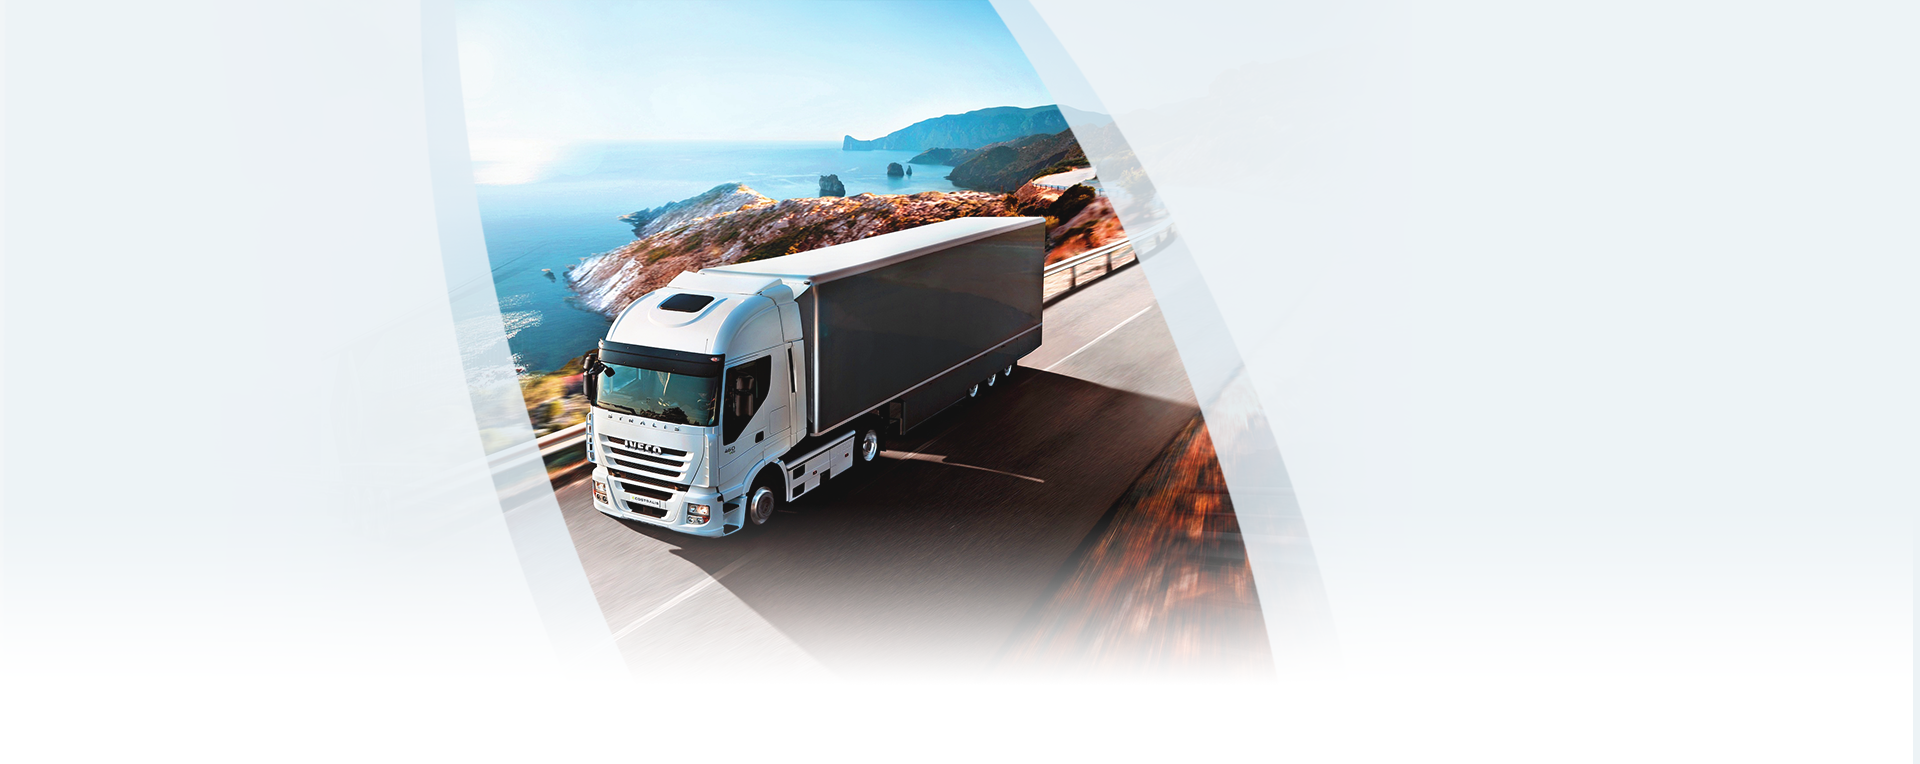
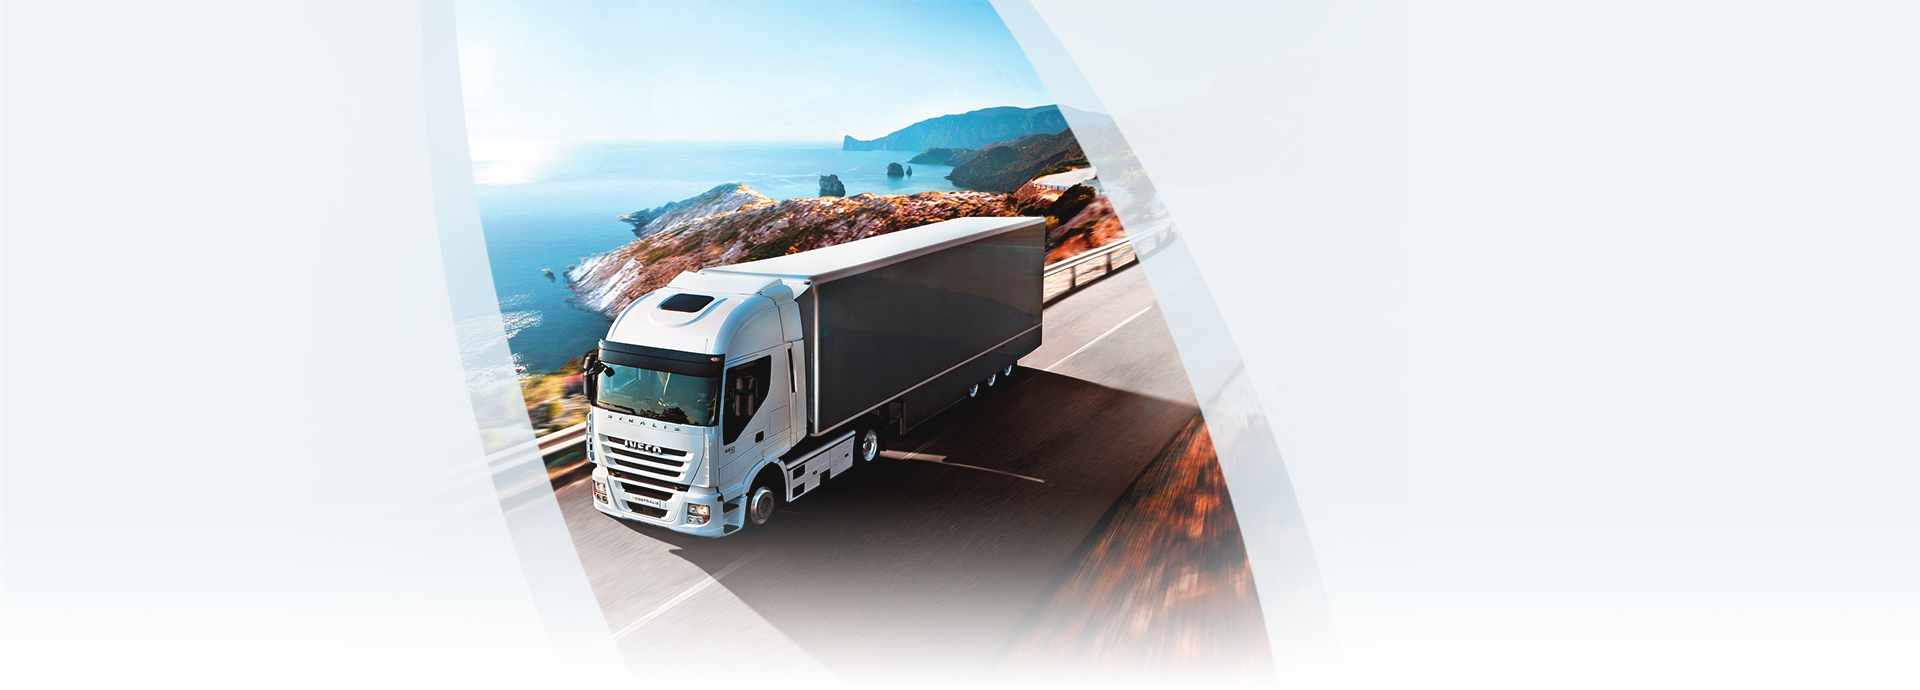
beta1

Changed region(s): [[0.25, 0.1217, 0.6875, 0.9739]]

diff --git a/app/css/header.min.css b/app/css/header.min.css
@@ -1,1 +1,1 @@
-a,body{color:#323232}.button,a{-webkit-transition:all .5s ease}h2,h3,h4,p{margin-top:0}.social a,body{position:relative}.button,h4{text-transform:uppercase}body{font-size:15px;min-width:320px;line-height:1.6;font-family:RobotoLight,sans-serif;overflow-x:hidden;background-color:#fff}.hidden{display:none}.button,.social a{display:inline-block}h1{font:27px/42px RobotoThin,sans-serif;font-weight:400;margin-bottom:20px}h2,h2.page-name{margin-bottom:25px}h2,h3,h4{font-family:PTSans,sans-serif;font-weight:400}h2{font-size:21px}h2.page-name{font:24px/1 RobotoThin,sans-serif}h3{font-size:18px;margin-top:30px;margin-bottom:12px}h4{font-size:14px;line-height:24px}.button,.main-nav li a{font:14px/1 PTSans,sans-serif}a{transition:all .5s ease}a:hover{color:#09cf3a;opacity:.7}a:active,a:focus,a:hover{outline:0;text-decoration:none}p{margin-bottom:24px}ul{margin:0;padding:0;list-style-type:none}.social a::before{content:'';height:100%;width:100%;position:absolute;top:0;left:0;background-color:#fff;opacity:0;-webkit-transition:opacity .1s ease;transition:opacity .1s ease}.user-agreement,.user-agreement i,form,header .logo{position:relative}.social a:hover{opacity:1}.social a:hover::before{opacity:.7}.button{width:100%;color:#fff;padding:17px 0 13px;border:none;-webkit-border-radius:2px;border-radius:2px;background-color:#09cf3a;-webkit-box-shadow:0 2px 5px rgba(0,0,0,.2);box-shadow:0 2px 5px rgba(0,0,0,.2);transition:all .5s ease}.button:hover{background-color:#47f773}section.content{padding-top:15px}.text-right{text-align:right}.text-center,form{text-align:center}.cell{display:table-cell;padding:0}.main-nav,.user-agreement i,header .logo,header form{display:inline-block}.top{vertical-align:top}.middle{vertical-align:middle}form{font:13px/18px PTSans,sans-serif}form h4{font-weight:600;line-height:21px;margin-bottom:8px}form p{margin-bottom:6px}form p span{color:#09cf3a;font-size:14px;font-weight:600}form label p{margin-bottom:5px;text-align:left}form input,form textarea{width:100%;color:#323232;font:17px RobotoLight,sans-serif;padding:0 8px;margin-bottom:8px;-webkit-border-radius:2px;border-radius:2px;border:1px solid #dcdcdc;-webkit-box-shadow:inset 0 0 4px rgba(0,0,0,.15);box-shadow:inset 0 0 4px rgba(0,0,0,.15)}form input{height:40px}.user-agreement{text-align:left;margin-top:5px;margin-bottom:8px}.user-agreement i{color:#09cf3a;font-size:14px;margin-right:8px;cursor:pointer}.user-agreement a{color:#09cf3a;text-decoration:underline;opacity:.7}.user-agreement a:hover{color:#2ff660}header{height:764px;background:url(../img/header-bg.png) center}header .logo{width:410px;height:auto;top:16px;left:-15px}header .logo img{width:100%;height:100%}header .contacts-bar{position:relative;top:46px;text-align:right;margin-left:109px;float:right}header .contacts-bar i{color:#09cf3a;font-size:17px}header .contacts-bar p{color:#aeb2b4;font:12px PTSans,sans-serif;margin:3px 0 0}header .email p,header .phone p{color:#595959;font:22px PTSans,sans-serif;margin-top:0;margin-left:7px}header .email span,header .phone span{font-size:20px;color:#09cf3a;opacity:.5}header .email a,header .phone a{color:#595959;font:17px PTSans,sans-serif;-webkit-transition:all .5s ease;transition:all .5s ease}header .email a:hover,header .phone a:hover{color:#09cf3a;opacity:.5;text-decoration:none}header .email{margin-top:8px}header h1{margin-top:120px}header form{max-width:360px;top:70px;background-color:#f7f7f7;-webkit-border-radius:8px;border-radius:8px;-webkit-box-shadow:0 0 6px rgba(0,0,0,.15);box-shadow:0 0 6px rgba(0,0,0,.15);color:#b1b1b2;padding:20px 24px 35px}header form h4{color:#8a8a8a}.main-nav li a,button.menu{color:#fff;text-transform:uppercase;padding:18px 0 15px}.main-nav{width:100%;background-color:#08b733;-webkit-box-shadow:inset 0 0 4px rgba(0,0,0,.25);box-shadow:inset 0 0 4px rgba(0,0,0,.25)}.main-nav ul{display:table;width:100%}.main-nav li{display:table-cell;text-align:center}.main-nav li.active{background-color:#079e2c;-webkit-box-shadow:inset 0 0 4px rgba(0,0,0,.05);box-shadow:inset 0 0 4px rgba(0,0,0,.05)}.main-nav li a{display:block;font-weight:600}.main-nav li a:hover{background-color:#09cf3a;opacity:1}button.menu{display:inline-block;width:100%;font:14px/1 PTSans,sans-serif;font-weight:600;border:none;background-color:transparent;text-align:center}
+a,body{color:#323232}.button,a{-webkit-transition:all .5s ease}h2,h3,h4,p{margin-top:0}.social a,body{position:relative}.button,h4{text-transform:uppercase}body{font-size:15px;min-width:320px;line-height:1.6;font-family:RobotoLight,sans-serif;overflow-x:hidden;background-color:#fff}.hidden{display:none}.button,.social a{display:inline-block}h1{font:27px/42px RobotoThin,sans-serif;font-weight:400;margin-bottom:20px}h2,h2.page-name{margin-bottom:25px}h2,h3,h4{font-family:PTSans,sans-serif;font-weight:400}h2{font-size:21px}h2.page-name{font:24px/1 RobotoThin,sans-serif}h3{font-size:18px;margin-top:30px;margin-bottom:12px}h4{font-size:14px;line-height:24px}.button,.main-nav li a{font:14px/1 PTSans,sans-serif}a{transition:all .5s ease}a:hover{color:#09cf3a;opacity:.7}a:active,a:focus,a:hover{outline:0;text-decoration:none}p{margin-bottom:24px}ul{margin:0;padding:0;list-style-type:none}.social a::before{content:'';height:100%;width:100%;position:absolute;top:0;left:0;background-color:#fff;opacity:0;-webkit-transition:opacity .1s ease;transition:opacity .1s ease}.user-agreement,.user-agreement i,form,header .logo{position:relative}.social a:hover{opacity:1}.social a:hover::before{opacity:.7}.button{width:100%;color:#fff;padding:17px 0 13px;border:none;-webkit-border-radius:2px;border-radius:2px;background-color:#09cf3a;-webkit-box-shadow:0 2px 5px rgba(0,0,0,.2);box-shadow:0 2px 5px rgba(0,0,0,.2);transition:all .5s ease}.button:hover{background-color:#47f773}section.content{padding-top:15px}.text-right{text-align:right}.text-center,form{text-align:center}.cell{display:table-cell;padding:0}.main-nav,.user-agreement i,header .logo,header form{display:inline-block}.top{vertical-align:top}.middle{vertical-align:middle}form{font:13px/18px PTSans,sans-serif}form h4{font-weight:600;line-height:21px;margin-bottom:8px}form p{margin-bottom:6px}form p span{color:#09cf3a;font-size:14px;font-weight:600}form label p{margin-bottom:5px;text-align:left}form input,form textarea{width:100%;color:#323232;font:17px RobotoLight,sans-serif;padding:0 8px;margin-bottom:8px;-webkit-border-radius:2px;border-radius:2px;border:1px solid #dcdcdc;-webkit-box-shadow:inset 0 0 4px rgba(0,0,0,.15);box-shadow:inset 0 0 4px rgba(0,0,0,.15)}form input{height:40px}.user-agreement{text-align:left;margin-top:5px;margin-bottom:8px}.user-agreement i{color:#09cf3a;font-size:14px;margin-right:8px;cursor:pointer}.user-agreement a{color:#09cf3a;text-decoration:underline;opacity:.7}.user-agreement a:hover{color:#2ff660}header{background:url(../img/header-bg.png) top center no-repeat}header .logo{width:410px;height:auto;top:16px;left:-15px}header .logo img{width:100%;height:100%}header .contacts-bar{position:relative;top:46px;text-align:right;margin-left:109px;float:right}header .contacts-bar i{color:#09cf3a;font-size:17px}header .contacts-bar p{color:#aeb2b4;font:12px PTSans,sans-serif;margin:3px 0 0}header .email p,header .phone p{color:#595959;font:22px PTSans,sans-serif;margin-top:0;margin-left:7px}header .email span,header .phone span{font-size:20px;color:#09cf3a;opacity:.5}header .email a,header .phone a{color:#595959;font:17px PTSans,sans-serif;-webkit-transition:all .5s ease;transition:all .5s ease}header .email a:hover,header .phone a:hover{color:#09cf3a;opacity:.5;text-decoration:none}header .email{margin-top:8px}header h1{margin-top:120px}header form{max-width:360px;top:70px;background-color:#f7f7f7;-webkit-border-radius:8px;border-radius:8px;-webkit-box-shadow:0 0 6px rgba(0,0,0,.15);box-shadow:0 0 6px rgba(0,0,0,.15);color:#b1b1b2;padding:20px 24px 35px}header form h4{color:#8a8a8a}.main-nav li a,button.menu{color:#fff;text-transform:uppercase;padding:18px 0 15px}.main-nav{width:100%;background-color:#08b733;-webkit-box-shadow:inset 0 0 4px rgba(0,0,0,.25);box-shadow:inset 0 0 4px rgba(0,0,0,.25)}.main-nav ul{display:table;width:100%}.main-nav li{display:table-cell;text-align:center}.main-nav li.active{background-color:#079e2c;-webkit-box-shadow:inset 0 0 4px rgba(0,0,0,.05);box-shadow:inset 0 0 4px rgba(0,0,0,.05)}.main-nav li a{display:block;font-weight:600}.main-nav li a:hover{background-color:#09cf3a;opacity:1}button.menu{display:inline-block;width:100%;font:14px/1 PTSans,sans-serif;font-weight:600;border:none;background-color:transparent;text-align:center}

diff --git a/app/contacts.html b/app/contacts.html
@@ -200,7 +200,7 @@
 								<img src="img/contacts-icons/email.svg" alt="email.svg"></img>
 							</td>
 							<td>
-								<p>ПН - ПТ  с 9:00 до 17:00</p>
+								<a href="mailto:info.dorogavam.ru">info.dorogavam.ru</a>
 							</td>
 						</tr>
 					</table>							

diff --git a/sass/header.sass b/sass/header.sass
@@ -172,8 +172,7 @@ form
 			color: lighten($accent-color, 15%)
 
 header
-	height: 764px
-	background: url(../img/header-bg.png) center
+	background: url(../img/header-bg.png) top center no-repeat
 
 	.logo
 		width: 410px
